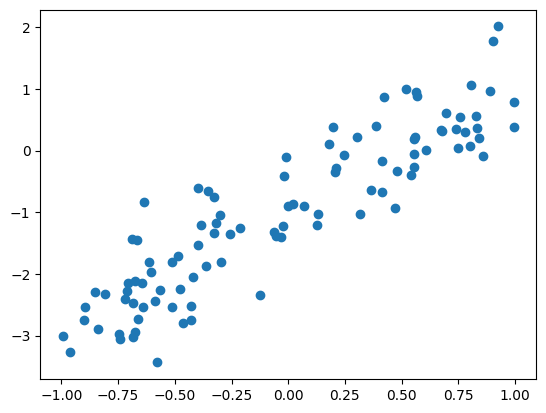
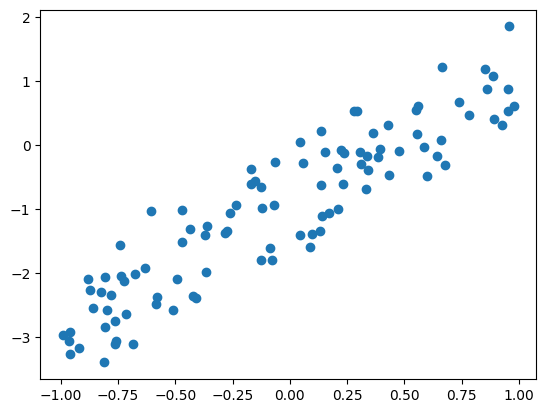
Built site for gh-pages

diff --git a/notebooks/01-01-Reg-LM-Sim.html b/notebooks/01-01-Reg-LM-Sim.html
@@ -65,7 +65,7 @@ pre > code.sourceCode > span > a:first-child::before { text-decoration: underlin
 <script src="../site_libs/quarto-search/fuse.min.js"></script>
 <script src="../site_libs/quarto-search/quarto-search.js"></script>
 <meta name="quarto:offset" content="../">
-<link href="../notebooks/01-02-Reg-LM-Yield.html" rel="next">
+<link href="../notebooks/02-01-Class-Logistic-Sim.html" rel="next">
 <link href="../lectures/L03.html" rel="prev">
 <link href="../logo.jpg" rel="icon" type="image/jpeg">
 <script src="../site_libs/quarto-html/quarto.js"></script>
@@ -247,11 +247,6 @@ window.Quarto = {
 </li>
           <li class="sidebar-item">
   <div class="sidebar-item-container"> 
-  <a href="../notebooks/01-02-Reg-LM-Yield.html" class="sidebar-item-text sidebar-link"><span class="chapter-title">Linear Regression:02</span></a>
-  </div>
-</li>
-          <li class="sidebar-item">
-  <div class="sidebar-item-container"> 
   <a href="../notebooks/02-01-Class-Logistic-Sim.html" class="sidebar-item-text sidebar-link"><span class="chapter-title">Classification:01</span></a>
   </div>
 </li>
@@ -316,24 +311,29 @@ window.Quarto = {
 <section id="generate-data" class="level2">
 <h2 class="anchored" data-anchor-id="generate-data">Generate Data</h2>
 <p>Here, we will generate a data with a known function, i.e., we will simulate data. The new term for this is <em>Generative AI</em> :). The advantage is, we exactly know the model. So, we will know if our understanding is correct.</p>
-<p>Simulation is a very powerful technique when we are developing new theory or implementing a known theory. The ground truth is known, so we check our understanding, can debug if things do not go as expected.</p>
+<p>Simulation is a very powerful technique when we are developing new theory or implementing a known theory. The ground truth is known, so we check our understanding and can debug if things do not go as expected.</p>
 <p>Here, we will consider the following model.</p>
 <p><span class="math display">\[
-y = -1 + 2x_1 \\
-x_1 \sim U(-1,1)
+y = z + \epsilon \\
+z = -1 + 2x_1 \\
+x_1 \sim U(-1,1) \\
+\epsilon \sim N(0,\sigma^2)
+\
 \]</span></p>
 <div id="cell-3" class="cell" data-execution_count="1">
 <div class="sourceCode cell-code" id="cb1"><pre class="sourceCode python code-with-copy"><code class="sourceCode python"><span id="cb1-1"><a href="#cb1-1" aria-hidden="true" tabindex="-1"></a><span class="im">import</span> numpy <span class="im">as</span> np</span>
 <span id="cb1-2"><a href="#cb1-2" aria-hidden="true" tabindex="-1"></a><span class="im">import</span> matplotlib.pyplot <span class="im">as</span> plt</span>
 <span id="cb1-3"><a href="#cb1-3" aria-hidden="true" tabindex="-1"></a></span>
-<span id="cb1-4"><a href="#cb1-4" aria-hidden="true" tabindex="-1"></a>n <span class="op">=</span> <span class="dv">100</span></span>
-<span id="cb1-5"><a href="#cb1-5" aria-hidden="true" tabindex="-1"></a>x <span class="op">=</span> <span class="dv">2</span><span class="op">*</span>(np.random.random(n))<span class="op">-</span><span class="dv">1</span></span>
-<span id="cb1-6"><a href="#cb1-6" aria-hidden="true" tabindex="-1"></a>b0 <span class="op">=</span> <span class="op">-</span><span class="dv">1</span></span>
-<span id="cb1-7"><a href="#cb1-7" aria-hidden="true" tabindex="-1"></a>b1 <span class="op">=</span> <span class="dv">2</span></span>
-<span id="cb1-8"><a href="#cb1-8" aria-hidden="true" tabindex="-1"></a>y <span class="op">=</span> b0 <span class="op">+</span> b1<span class="op">*</span>x</span>
-<span id="cb1-9"><a href="#cb1-9" aria-hidden="true" tabindex="-1"></a>noise <span class="op">=</span> np.random.normal(<span class="dv">0</span>,<span class="fl">0.5</span>,n)</span>
-<span id="cb1-10"><a href="#cb1-10" aria-hidden="true" tabindex="-1"></a>y <span class="op">=</span> y <span class="op">+</span> noise </span>
-<span id="cb1-11"><a href="#cb1-11" aria-hidden="true" tabindex="-1"></a>plt.scatter(x,y)</span></code><button title="Copy to Clipboard" class="code-copy-button"><i class="bi"></i></button></pre></div>
+<span id="cb1-4"><a href="#cb1-4" aria-hidden="true" tabindex="-1"></a>np.random.seed(<span class="dv">0</span>) <span class="co"># set the seed for reproducibility</span></span>
+<span id="cb1-5"><a href="#cb1-5" aria-hidden="true" tabindex="-1"></a></span>
+<span id="cb1-6"><a href="#cb1-6" aria-hidden="true" tabindex="-1"></a>n <span class="op">=</span> <span class="dv">100</span><span class="op">;</span> <span class="co"># no of samples</span></span>
+<span id="cb1-7"><a href="#cb1-7" aria-hidden="true" tabindex="-1"></a>x <span class="op">=</span> <span class="dv">2</span><span class="op">*</span>(np.random.random(n))<span class="op">-</span><span class="dv">1</span><span class="op">;</span> <span class="co"># feature</span></span>
+<span id="cb1-8"><a href="#cb1-8" aria-hidden="true" tabindex="-1"></a>b0 <span class="op">=</span> <span class="op">-</span><span class="dv">1</span></span>
+<span id="cb1-9"><a href="#cb1-9" aria-hidden="true" tabindex="-1"></a>b1 <span class="op">=</span> <span class="dv">2</span></span>
+<span id="cb1-10"><a href="#cb1-10" aria-hidden="true" tabindex="-1"></a>z <span class="op">=</span> b0 <span class="op">+</span> b1<span class="op">*</span>x <span class="co"># the model</span></span>
+<span id="cb1-11"><a href="#cb1-11" aria-hidden="true" tabindex="-1"></a>noise <span class="op">=</span> np.random.normal(<span class="dv">0</span>,<span class="fl">0.5</span>,n)<span class="op">;</span> <span class="co"># add some noise </span></span>
+<span id="cb1-12"><a href="#cb1-12" aria-hidden="true" tabindex="-1"></a>y <span class="op">=</span> z <span class="op">+</span> noise <span class="co"># response</span></span>
+<span id="cb1-13"><a href="#cb1-13" aria-hidden="true" tabindex="-1"></a>plt.scatter(x,y)</span></code><button title="Copy to Clipboard" class="code-copy-button"><i class="bi"></i></button></pre></div>
 <div class="cell-output cell-output-display">
 <div>
 <figure class="figure">
@@ -353,44 +353,47 @@ x_1 \sim U(-1,1)
 <span id="cb2-5"><a href="#cb2-5" aria-hidden="true" tabindex="-1"></a></span>
 <span id="cb2-6"><a href="#cb2-6" aria-hidden="true" tabindex="-1"></a></span>
 <span id="cb2-7"><a href="#cb2-7" aria-hidden="true" tabindex="-1"></a><span class="co"># Fit the linear regression model</span></span>
-<span id="cb2-8"><a href="#cb2-8" aria-hidden="true" tabindex="-1"></a>reg <span class="op">=</span> LinearRegression()</span>
-<span id="cb2-9"><a href="#cb2-9" aria-hidden="true" tabindex="-1"></a>reg.fit(X, y)</span>
+<span id="cb2-8"><a href="#cb2-8" aria-hidden="true" tabindex="-1"></a>model <span class="op">=</span> LinearRegression()</span>
+<span id="cb2-9"><a href="#cb2-9" aria-hidden="true" tabindex="-1"></a>model.fit(X, y)</span>
 <span id="cb2-10"><a href="#cb2-10" aria-hidden="true" tabindex="-1"></a></span>
 <span id="cb2-11"><a href="#cb2-11" aria-hidden="true" tabindex="-1"></a><span class="co"># Print the coefficients and the score</span></span>
-<span id="cb2-12"><a href="#cb2-12" aria-hidden="true" tabindex="-1"></a><span class="bu">print</span>(<span class="st">'coefs'</span>, reg.coef_)</span>
-<span id="cb2-13"><a href="#cb2-13" aria-hidden="true" tabindex="-1"></a><span class="bu">print</span>(<span class="st">'intercepts'</span>, reg.intercept_)</span>
-<span id="cb2-14"><a href="#cb2-14" aria-hidden="true" tabindex="-1"></a><span class="bu">print</span>(<span class="st">'score'</span>, reg.score(X, y))</span></code><button title="Copy to Clipboard" class="code-copy-button"><i class="bi"></i></button></pre></div>
+<span id="cb2-12"><a href="#cb2-12" aria-hidden="true" tabindex="-1"></a><span class="bu">print</span>(<span class="st">'coefs'</span>, model.coef_)</span>
+<span id="cb2-13"><a href="#cb2-13" aria-hidden="true" tabindex="-1"></a><span class="bu">print</span>(<span class="st">'intercepts'</span>, model.intercept_)</span>
+<span id="cb2-14"><a href="#cb2-14" aria-hidden="true" tabindex="-1"></a><span class="bu">print</span>(<span class="st">'score'</span>, model.score(X, y))</span></code><button title="Copy to Clipboard" class="code-copy-button"><i class="bi"></i></button></pre></div>
 <div class="cell-output cell-output-stdout">
-<pre><code>coefs [1.98992655]
-intercepts -0.9556999786482694
-score 0.8181079845791537</code></pre>
+<pre><code>coefs [1.98423376]
+intercepts -0.9046907059258759
+score 0.8406601636546879</code></pre>
 </div>
 </div>
 <div id="cell-6" class="cell" data-execution_count="3">
-<div class="sourceCode cell-code" id="cb4"><pre class="sourceCode python code-with-copy"><code class="sourceCode python"><span id="cb4-1"><a href="#cb4-1" aria-hidden="true" tabindex="-1"></a><span class="co"># Fit the linear regression model but w/o intercept</span></span>
-<span id="cb4-2"><a href="#cb4-2" aria-hidden="true" tabindex="-1"></a>model <span class="op">=</span> LinearRegression(fit_intercept<span class="op">=</span><span class="va">False</span>)</span>
-<span id="cb4-3"><a href="#cb4-3" aria-hidden="true" tabindex="-1"></a>model.fit(X, y)</span>
-<span id="cb4-4"><a href="#cb4-4" aria-hidden="true" tabindex="-1"></a><span class="co"># Print the coefficients and the score</span></span>
-<span id="cb4-5"><a href="#cb4-5" aria-hidden="true" tabindex="-1"></a><span class="bu">print</span>(<span class="st">'coefs'</span>, model.coef_)</span>
-<span id="cb4-6"><a href="#cb4-6" aria-hidden="true" tabindex="-1"></a><span class="bu">print</span>(<span class="st">'intercepts'</span>, model.intercept_)</span>
-<span id="cb4-7"><a href="#cb4-7" aria-hidden="true" tabindex="-1"></a><span class="bu">print</span>(<span class="st">'score'</span>, model.score(X, y))</span></code><button title="Copy to Clipboard" class="code-copy-button"><i class="bi"></i></button></pre></div>
+<div class="sourceCode cell-code" id="cb4"><pre class="sourceCode python code-with-copy"><code class="sourceCode python"><span id="cb4-1"><a href="#cb4-1" aria-hidden="true" tabindex="-1"></a><span class="co"># Fit the linear regression model but w/o intercept.</span></span>
+<span id="cb4-2"><a href="#cb4-2" aria-hidden="true" tabindex="-1"></a><span class="co"># Read sklearn documentation of the model API</span></span>
+<span id="cb4-3"><a href="#cb4-3" aria-hidden="true" tabindex="-1"></a>model_reduced <span class="op">=</span> LinearRegression(fit_intercept<span class="op">=</span><span class="va">False</span>)</span>
+<span id="cb4-4"><a href="#cb4-4" aria-hidden="true" tabindex="-1"></a>model_reduced.fit(X, y)</span>
+<span id="cb4-5"><a href="#cb4-5" aria-hidden="true" tabindex="-1"></a><span class="co"># Print the coefficients and the score</span></span>
+<span id="cb4-6"><a href="#cb4-6" aria-hidden="true" tabindex="-1"></a><span class="bu">print</span>(<span class="st">'coefs'</span>, model_reduced.coef_)</span>
+<span id="cb4-7"><a href="#cb4-7" aria-hidden="true" tabindex="-1"></a><span class="bu">print</span>(<span class="st">'intercepts'</span>, model_reduced.intercept_)</span>
+<span id="cb4-8"><a href="#cb4-8" aria-hidden="true" tabindex="-1"></a><span class="bu">print</span>(<span class="st">'score'</span>, model_reduced.score(X, y))</span></code><button title="Copy to Clipboard" class="code-copy-button"><i class="bi"></i></button></pre></div>
 <div class="cell-output cell-output-stdout">
-<pre><code>coefs [2.06639893]
+<pre><code>coefs [2.13098877]
 intercepts 0.0
-score 0.26761225800328803</code></pre>
+score 0.3196686905296836</code></pre>
 </div>
 </div>
+<p>If you drop the intercept term, the score, called <span class="math inline">\(R^2\)</span>, dropped significantly. Why did that happen?</p>
+<p>Btw, read what this <span class="math inline">\(R^2\)</span> is. Read <em>sklearn</em> documentation!</p>
 </section>
 <section id="diagnosis" class="level2">
 <h2 class="anchored" data-anchor-id="diagnosis">Diagnosis</h2>
 <p>Asses the model fit and observe how the errors are!</p>
-<div id="cell-8" class="cell" data-execution_count="4">
-<div class="sourceCode cell-code" id="cb6"><pre class="sourceCode python code-with-copy"><code class="sourceCode python"><span id="cb6-1"><a href="#cb6-1" aria-hidden="true" tabindex="-1"></a>yh_b0 <span class="op">=</span> reg.predict(X)</span>
+<div id="cell-9" class="cell" data-execution_count="4">
+<div class="sourceCode cell-code" id="cb6"><pre class="sourceCode python code-with-copy"><code class="sourceCode python"><span id="cb6-1"><a href="#cb6-1" aria-hidden="true" tabindex="-1"></a>yh <span class="op">=</span> model.predict(X)</span>
 <span id="cb6-2"><a href="#cb6-2" aria-hidden="true" tabindex="-1"></a>plt.scatter(x,y, label<span class="op">=</span><span class="st">'Observations'</span>)</span>
-<span id="cb6-3"><a href="#cb6-3" aria-hidden="true" tabindex="-1"></a>plt.plot(x,yh_b0,linewidth<span class="op">=</span><span class="dv">3</span>, color<span class="op">=</span><span class="st">"tab:red"</span>, label<span class="op">=</span><span class="st">'with intercept'</span>)</span>
+<span id="cb6-3"><a href="#cb6-3" aria-hidden="true" tabindex="-1"></a>plt.plot(x,yh,linewidth<span class="op">=</span><span class="dv">3</span>, color<span class="op">=</span><span class="st">"tab:red"</span>, label<span class="op">=</span><span class="st">'with intercept'</span>)</span>
 <span id="cb6-4"><a href="#cb6-4" aria-hidden="true" tabindex="-1"></a></span>
-<span id="cb6-5"><a href="#cb6-5" aria-hidden="true" tabindex="-1"></a>yh <span class="op">=</span> model.predict(X)</span>
-<span id="cb6-6"><a href="#cb6-6" aria-hidden="true" tabindex="-1"></a>plt.plot(x,yh,linewidth<span class="op">=</span><span class="dv">3</span>, color<span class="op">=</span><span class="st">"tab:orange"</span>,label<span class="op">=</span><span class="st">'w/o intercept'</span>)</span>
+<span id="cb6-5"><a href="#cb6-5" aria-hidden="true" tabindex="-1"></a>yh_reduced <span class="op">=</span> model_reduced.predict(X)</span>
+<span id="cb6-6"><a href="#cb6-6" aria-hidden="true" tabindex="-1"></a>plt.plot(x,yh_reduced,linewidth<span class="op">=</span><span class="dv">3</span>, color<span class="op">=</span><span class="st">"tab:orange"</span>,label<span class="op">=</span><span class="st">'w/o intercept'</span>)</span>
 <span id="cb6-7"><a href="#cb6-7" aria-hidden="true" tabindex="-1"></a>plt.legend()</span></code><button title="Copy to Clipboard" class="code-copy-button"><i class="bi"></i></button></pre></div>
 <div class="cell-output cell-output-display">
 <div>
@@ -404,17 +407,17 @@ score 0.26761225800328803</code></pre>
 <section id="evaluation" class="level2">
 <h2 class="anchored" data-anchor-id="evaluation">Evaluation</h2>
 <p>Report the model metrics</p>
-<div id="cell-10" class="cell" data-execution_count="5">
+<div id="cell-11" class="cell" data-execution_count="5">
 <div class="sourceCode cell-code" id="cb7"><pre class="sourceCode python code-with-copy"><code class="sourceCode python"><span id="cb7-1"><a href="#cb7-1" aria-hidden="true" tabindex="-1"></a><span class="im">from</span> sklearn.metrics <span class="im">import</span> mean_squared_error</span>
 <span id="cb7-2"><a href="#cb7-2" aria-hidden="true" tabindex="-1"></a></span>
 <span id="cb7-3"><a href="#cb7-3" aria-hidden="true" tabindex="-1"></a>mse <span class="op">=</span> mean_squared_error(y, yh)</span>
 <span id="cb7-4"><a href="#cb7-4" aria-hidden="true" tabindex="-1"></a><span class="bu">print</span>(<span class="st">'mse w/o intercept'</span>, mse)</span>
 <span id="cb7-5"><a href="#cb7-5" aria-hidden="true" tabindex="-1"></a></span>
-<span id="cb7-6"><a href="#cb7-6" aria-hidden="true" tabindex="-1"></a>mse <span class="op">=</span> mean_squared_error(y, yh_b0)</span>
+<span id="cb7-6"><a href="#cb7-6" aria-hidden="true" tabindex="-1"></a>mse <span class="op">=</span> mean_squared_error(y, yh_reduced)</span>
 <span id="cb7-7"><a href="#cb7-7" aria-hidden="true" tabindex="-1"></a><span class="bu">print</span>(<span class="st">'mse with intercept'</span>, mse)</span></code><button title="Copy to Clipboard" class="code-copy-button"><i class="bi"></i></button></pre></div>
 <div class="cell-output cell-output-stdout">
-<pre><code>mse w/o intercept 1.212484058759364
-mse with intercept 0.301126242927177</code></pre>
+<pre><code>mse w/o intercept 0.24810966218116207
+mse with intercept 1.0593507263189423</code></pre>
 </div>
 </div>
 <p>Note:</p>
@@ -427,6 +430,7 @@ mse with intercept 0.301126242927177</code></pre>
 <li>Will the MSE improve if I increase the data by 10 fold? In other words, will increasing the data size lead to model improvement?</li>
 <li>How is MSE related to the noise variance?</li>
 <li>Can the MSE be lowered by adding more features?</li>
+<li>Should we use MSE or RMSE to communicate the error back to the user (hint: which metric has the same units as the response variable <span class="math inline">\(y\)</span>)</li>
 </ol>
 
 
@@ -860,8 +864,8 @@ window.document.addEventListener("DOMContentLoaded", function (event) {
       </a>          
   </div>
   <div class="nav-page nav-page-next">
-      <a href="../notebooks/01-02-Reg-LM-Yield.html" class="pagination-link" aria-label="Linear Regression:02">
-        <span class="nav-page-text"><span class="chapter-title">Linear Regression:02</span></span> <i class="bi bi-arrow-right-short"></i>
+      <a href="../notebooks/02-01-Class-Logistic-Sim.html" class="pagination-link" aria-label="Classification:01">
+        <span class="nav-page-text"><span class="chapter-title">Classification:01</span></span> <i class="bi bi-arrow-right-short"></i>
       </a>
   </div>
 </nav>

diff --git a/lectures/L03.html b/lectures/L03.html
@@ -184,11 +184,6 @@ ul.task-list li input[type="checkbox"] {
 </li>
           <li class="sidebar-item">
   <div class="sidebar-item-container"> 
-  <a href="../notebooks/01-02-Reg-LM-Yield.html" class="sidebar-item-text sidebar-link"><span class="chapter-title">Linear Regression:02</span></a>
-  </div>
-</li>
-          <li class="sidebar-item">
-  <div class="sidebar-item-container"> 
   <a href="../notebooks/02-01-Class-Logistic-Sim.html" class="sidebar-item-text sidebar-link"><span class="chapter-title">Classification:01</span></a>
   </div>
 </li>
@@ -270,6 +265,8 @@ ul.task-list li input[type="checkbox"] {
 <ul>
 <li>k-Means clustering on simulated data <a href="../notebooks/03-01-Clust-Sim-Ch12-ISL.html">notebook</a> Chapter 12 of <a href="https://www.statlearning.com/">ISL</a></li>
 <li>k-Means clustering on real data <a href="./../notebooks03-01-Clust-Real-Ch12-ISL.ipynb">notebook</a> Chapter 12 of <a href="https://www.statlearning.com/">ISL</a></li>
+<li>k-Means assumptions <a href="https://scikit-learn.org/stable/auto_examples/cluster/plot_kmeans_assumptions.html#sphx-glr-auto-examples-cluster-plot-kmeans-assumptions-py">here</a> from <em>sklearn</em> documentation</li>
+<li>Finding the number of clusters based on Silhouette analysis - check <a href="https://scikit-learn.org/stable/auto_examples/cluster/plot_kmeans_silhouette_analysis.html#sphx-glr-auto-examples-cluster-plot-kmeans-silhouette-analysis-py">this</a> from <em>sklearn</em> documentation</li>
 </ul>
 </section>
 <section id="post-class" class="level2">
@@ -278,6 +275,7 @@ ul.task-list li input[type="checkbox"] {
 <li>walk through this <a href="https://flothesof.github.io/k-means-numpy.html">code</a> on k-Means</li>
 <li><a href="https://www.jstatsoft.org/article/view/v025i04">clValid</a>: An R Package for Cluster Validation</li>
 <li><a href="https://erdogant.github.io/clusteval/pages/html/index.html">clusteval</a> for evaluating clusters using different metrics.</li>
+<li><a href="https://erdogant.github.io/clustimage/pages/html/index.html">clustimage</a> - a python library for clustering images</li>
 </ul>
 </section>
 <section id="notes" class="level2">

diff --git a/notebooks/02-01-Class-Logistic-Sim.html b/notebooks/02-01-Class-Logistic-Sim.html
@@ -66,7 +66,7 @@ pre > code.sourceCode > span > a:first-child::before { text-decoration: underlin
 <script src="../site_libs/quarto-search/quarto-search.js"></script>
 <meta name="quarto:offset" content="../">
 <link href="../notebooks/02-02-Class-Logistic-Iris.html" rel="next">
-<link href="../notebooks/01-02-Reg-LM-Yield.html" rel="prev">
+<link href="../notebooks/01-01-Reg-LM-Sim.html" rel="prev">
 <link href="../logo.jpg" rel="icon" type="image/jpeg">
 <script src="../site_libs/quarto-html/quarto.js"></script>
 <script src="../site_libs/quarto-html/popper.min.js"></script>
@@ -246,11 +246,6 @@ window.Quarto = {
           <li class="sidebar-item">
   <div class="sidebar-item-container"> 
   <a href="../notebooks/01-01-Reg-LM-Sim.html" class="sidebar-item-text sidebar-link"><span class="chapter-title">Linear Regression:01</span></a>
-  </div>
-</li>
-          <li class="sidebar-item">
-  <div class="sidebar-item-container"> 
-  <a href="../notebooks/01-02-Reg-LM-Yield.html" class="sidebar-item-text sidebar-link"><span class="chapter-title">Linear Regression:02</span></a>
   </div>
 </li>
           <li class="sidebar-item">
@@ -1463,8 +1458,8 @@ window.document.addEventListener("DOMContentLoaded", function (event) {
 </script>
 <nav class="page-navigation">
   <div class="nav-page nav-page-previous">
-      <a href="../notebooks/01-02-Reg-LM-Yield.html" class="pagination-link" aria-label="Linear Regression:02">
-        <i class="bi bi-arrow-left-short"></i> <span class="nav-page-text"><span class="chapter-title">Linear Regression:02</span></span>
+      <a href="../notebooks/01-01-Reg-LM-Sim.html" class="pagination-link" aria-label="Linear Regression:01">
+        <i class="bi bi-arrow-left-short"></i> <span class="nav-page-text"><span class="chapter-title">Linear Regression:01</span></span>
       </a>          
   </div>
   <div class="nav-page nav-page-next">

diff --git a/lectures/L01.html b/lectures/L01.html
@@ -213,11 +213,6 @@ window.Quarto = {
 </li>
           <li class="sidebar-item">
   <div class="sidebar-item-container"> 
-  <a href="../notebooks/01-02-Reg-LM-Yield.html" class="sidebar-item-text sidebar-link"><span class="chapter-title">Linear Regression:02</span></a>
-  </div>
-</li>
-          <li class="sidebar-item">
-  <div class="sidebar-item-container"> 
   <a href="../notebooks/02-01-Class-Logistic-Sim.html" class="sidebar-item-text sidebar-link"><span class="chapter-title">Classification:01</span></a>
   </div>
 </li>
@@ -301,7 +296,7 @@ window.Quarto = {
 <h2 class="anchored" data-anchor-id="lab">Lab</h2>
 <ul>
 <li>Linear Regression on simulated data <a href="../notebooks/01-01-Reg-LM-Sim.html">notebook</a>simulated data</li>
-<li>Linear Regression on Yield data <a href="../notebooks/01-01-Reg-LM-Sim.html">notebook</a></li>
+<li>Linear Regression on Yield data. Check <a href="https://www.kaggle.com/code/romannihal/crop-yield-prediction">this</a> notebook on Kaggle</li>
 </ul>
 </section>
 <section id="post-class" class="level2">
@@ -343,6 +338,10 @@ window.Quarto = {
 </section>
 <section id="references" class="level2">
 <h2 class="anchored" data-anchor-id="references">References</h2>
+<ul>
+<li><a href="https://github.com/JWarmenhoven/ISLR-python">python notebooks</a> for Chapter 12 of <a href="https://www.statlearning.com/">ISL</a></li>
+<li><a href="https://www.statlearning.com/">An Introduction to Statistical Learning</a></li>
+</ul>
 
 
 </section>

diff --git a/notebooks/02-02-Class-Logistic-Iris.html b/notebooks/02-02-Class-Logistic-Iris.html
@@ -221,11 +221,6 @@ pre > code.sourceCode > span > a:first-child::before { text-decoration: underlin
 </li>
           <li class="sidebar-item">
   <div class="sidebar-item-container"> 
-  <a href="../notebooks/01-02-Reg-LM-Yield.html" class="sidebar-item-text sidebar-link"><span class="chapter-title">Linear Regression:02</span></a>
-  </div>
-</li>
-          <li class="sidebar-item">
-  <div class="sidebar-item-container"> 
   <a href="../notebooks/02-01-Class-Logistic-Sim.html" class="sidebar-item-text sidebar-link"><span class="chapter-title">Classification:01</span></a>
   </div>
 </li>

diff --git a/notebooks/03-01-Clust-Sim-Ch12-ISL.html b/notebooks/03-01-Clust-Sim-Ch12-ISL.html
@@ -221,11 +221,6 @@ pre > code.sourceCode > span > a:first-child::before { text-decoration: underlin
 </li>
           <li class="sidebar-item">
   <div class="sidebar-item-container"> 
-  <a href="../notebooks/01-02-Reg-LM-Yield.html" class="sidebar-item-text sidebar-link"><span class="chapter-title">Linear Regression:02</span></a>
-  </div>
-</li>
-          <li class="sidebar-item">
-  <div class="sidebar-item-container"> 
   <a href="../notebooks/02-01-Class-Logistic-Sim.html" class="sidebar-item-text sidebar-link"><span class="chapter-title">Classification:01</span></a>
   </div>
 </li>

diff --git a/notebooks/03-02-Clust-Real-Ch12-ISL.html b/notebooks/03-02-Clust-Real-Ch12-ISL.html
@@ -220,11 +220,6 @@ pre > code.sourceCode > span > a:first-child::before { text-decoration: underlin
 </li>
           <li class="sidebar-item">
   <div class="sidebar-item-container"> 
-  <a href="../notebooks/01-02-Reg-LM-Yield.html" class="sidebar-item-text sidebar-link"><span class="chapter-title">Linear Regression:02</span></a>
-  </div>
-</li>
-          <li class="sidebar-item">
-  <div class="sidebar-item-container"> 
   <a href="../notebooks/02-01-Class-Logistic-Sim.html" class="sidebar-item-text sidebar-link"><span class="chapter-title">Classification:01</span></a>
   </div>
 </li>

diff --git a/lectures/L00.html b/lectures/L00.html
@@ -184,11 +184,6 @@ ul.task-list li input[type="checkbox"] {
 </li>
           <li class="sidebar-item">
   <div class="sidebar-item-container"> 
-  <a href="../notebooks/01-02-Reg-LM-Yield.html" class="sidebar-item-text sidebar-link"><span class="chapter-title">Linear Regression:02</span></a>
-  </div>
-</li>
-          <li class="sidebar-item">
-  <div class="sidebar-item-container"> 
   <a href="../notebooks/02-01-Class-Logistic-Sim.html" class="sidebar-item-text sidebar-link"><span class="chapter-title">Classification:01</span></a>
   </div>
 </li>

diff --git a/lectures/L02.html b/lectures/L02.html
@@ -184,11 +184,6 @@ ul.task-list li input[type="checkbox"] {
 </li>
           <li class="sidebar-item">
   <div class="sidebar-item-container"> 
-  <a href="../notebooks/01-02-Reg-LM-Yield.html" class="sidebar-item-text sidebar-link"><span class="chapter-title">Linear Regression:02</span></a>
-  </div>
-</li>
-          <li class="sidebar-item">
-  <div class="sidebar-item-container"> 
   <a href="../notebooks/02-01-Class-Logistic-Sim.html" class="sidebar-item-text sidebar-link"><span class="chapter-title">Classification:01</span></a>
   </div>
 </li>

diff --git a/course.html b/course.html
@@ -184,11 +184,6 @@ ul.task-list li input[type="checkbox"] {
 </li>
           <li class="sidebar-item">
   <div class="sidebar-item-container"> 
-  <a href="./notebooks/01-02-Reg-LM-Yield.html" class="sidebar-item-text sidebar-link"><span class="chapter-title">Linear Regression:02</span></a>
-  </div>
-</li>
-          <li class="sidebar-item">
-  <div class="sidebar-item-container"> 
   <a href="./notebooks/02-01-Class-Logistic-Sim.html" class="sidebar-item-text sidebar-link"><span class="chapter-title">Classification:01</span></a>
   </div>
 </li>

diff --git a/index.html b/index.html
@@ -184,11 +184,6 @@ ul.task-list li input[type="checkbox"] {
 </li>
           <li class="sidebar-item">
   <div class="sidebar-item-container"> 
-  <a href="./notebooks/01-02-Reg-LM-Yield.html" class="sidebar-item-text sidebar-link"><span class="chapter-title">Linear Regression:02</span></a>
-  </div>
-</li>
-          <li class="sidebar-item">
-  <div class="sidebar-item-container"> 
   <a href="./notebooks/02-01-Class-Logistic-Sim.html" class="sidebar-item-text sidebar-link"><span class="chapter-title">Classification:01</span></a>
   </div>
 </li>

diff --git a/preface.html b/preface.html
@@ -183,11 +183,6 @@ ul.task-list li input[type="checkbox"] {
 </li>
           <li class="sidebar-item">
   <div class="sidebar-item-container"> 
-  <a href="./notebooks/01-02-Reg-LM-Yield.html" class="sidebar-item-text sidebar-link"><span class="chapter-title">Linear Regression:02</span></a>
-  </div>
-</li>
-          <li class="sidebar-item">
-  <div class="sidebar-item-container"> 
   <a href="./notebooks/02-01-Class-Logistic-Sim.html" class="sidebar-item-text sidebar-link"><span class="chapter-title">Classification:01</span></a>
   </div>
 </li>
